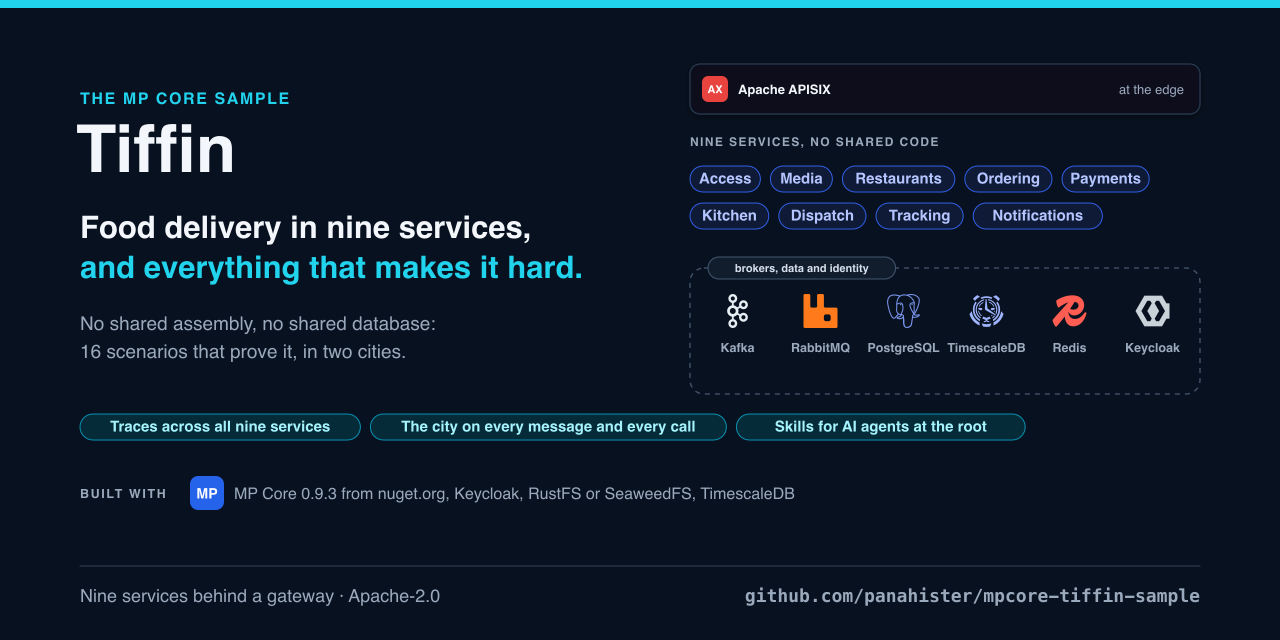
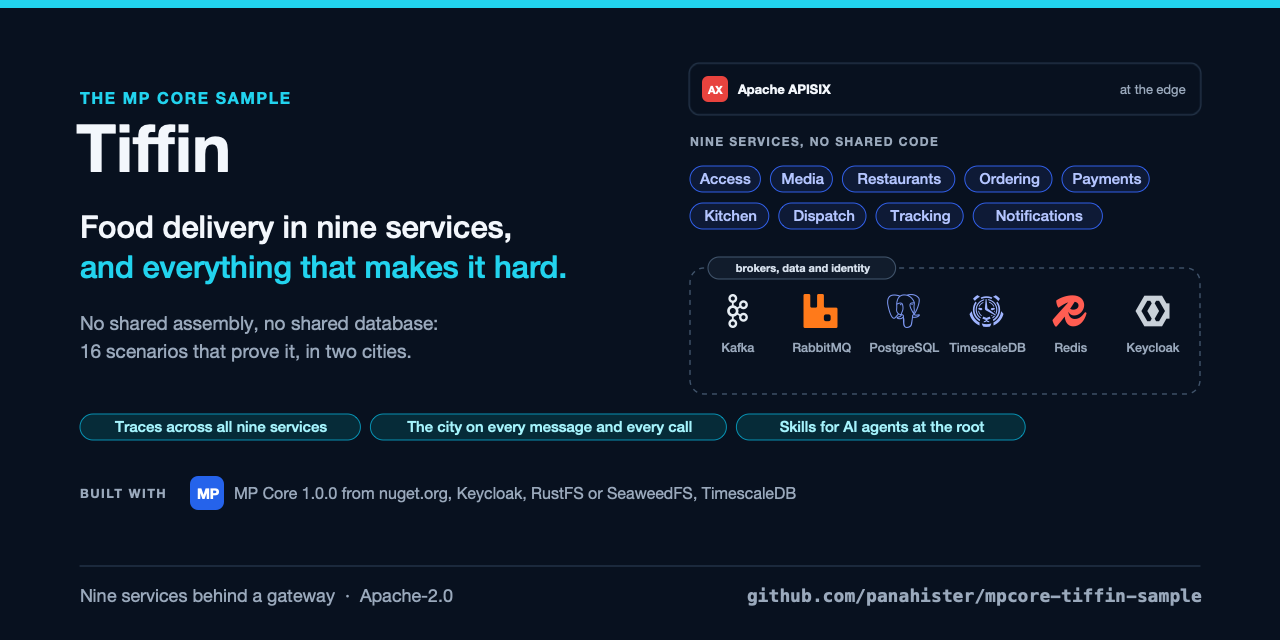
Build with MP Core 1.0.0
Every service and the contract tests pin MP Core 1.0.0, the first version
with a compatibility promise, in place of 0.9.3. The source is unchanged:
built in Release, warnings as errors, against the 1.0.0 packages from
nuget.org with an empty package cache, all 313 tests pass (270 in the nine
services, 43 contract tests).

The documents say 1.0.0 where they named the pinned version: README and the
running guide, which keeps 0.9.3 as the oldest version Tiffin builds with.
The code count is redone by the README's own rule, which reproduces the old
figures exactly at the commit that wrote them (a4a1cde: Tiffin 3,353, hosts
and adapters 4,989; MP Core 0.9.3 tests 7,052): MP Core 1.0.0 has 6,482
lines in the src of its 28 runtime packages and 12,481 lines of tests, 845
tests; Tiffin's business is now 3,458 lines and its hosts and adapters
5,233. The picture that compares them is drawn again from scripts/diagrams,
and the social image says 1.0.0. The dated records of 2026-09-28 are left as
they were.

diff --git a/scripts/diagrams/tiffin.py b/scripts/diagrams/tiffin.py
@@ -241,10 +241,10 @@ def why(d):
     d.rect(x0, y, total, 88, d.t["canvas"], d.t["frame"], r=10, sw=1)
     d.text(x0 + 16, y + 26, "The code, counted", size=13, weight=700)
     d.text(x0 + 16, y + 44, "lines of C#, without comments and braces", size=10.5, fill=d.t["muted"])
-    scale = (total - 260) / 5021
+    scale = (total - 260) / 6482
     bx = x0 + 240
-    for k, (color, label, n) in enumerate([("green", "Tiffin's business: Domain and Application, nine services", 3353),
-                                           ("blue", "MP Core 0.9.3: 28 packages, with 485 tests of their own", 5021)]):
+    for k, (color, label, n) in enumerate([("green", "Tiffin's business: Domain and Application, nine services", 3458),
+                                           ("blue", "MP Core 1.0.0: 28 packages, with 845 tests of their own", 6482)]):
         by = y + 18 + k * 32
         d.rect(bx, by, n * scale, 24, d.fill(color), d.stroke(color), r=6, sw=1)
         d.text(bx + 10, by + 16.5, f"{n:,}  ·  {label}", size=11, weight=600, fill=d.ink(color))

diff --git a/README.md b/README.md
@@ -32,7 +32,7 @@ two cities that never see each other, and sixteen scenarios that prove what is c
 </picture>
 
 > **State: work in progress.** Everything on this page was run; the section [What is not here yet](#what-is-not-here-yet)
-> says what was not. Tiffin is built with MP Core `0.9.3` from nuget.org.
+> says what was not. Tiffin is built with MP Core `1.0.0` from nuget.org.
 
 A tiffin is the lunch box that the dabbawalas of Mumbai carry from a kitchen to a desk, some two hundred
 thousand a day, by hand and by train, with next to no box lost. This sample is about the same thing:
@@ -126,7 +126,7 @@ stream catches up. Every case in the picture is a scenario of `scripts/scenarios
 
 <picture>
   <source media="(prefers-color-scheme: dark)" srcset="docs/images/why-mpcore-dark.svg">
-  <img alt="Ten guarantees the platform needs: for each, what every team builds and proves without MP Core, the line Tiffin wrote with it, and the scenario that proves it; and the code counted: 3,353 lines of Tiffin's business against 5,021 lines in MP Core's 28 packages" src="docs/images/why-mpcore-light.svg" width="100%">
+  <img alt="Ten guarantees the platform needs: for each, what every team builds and proves without MP Core, the line Tiffin wrote with it, and the scenario that proves it; and the code counted: 3,458 lines of Tiffin's business against 6,482 lines in MP Core 1.0.0's 28 packages" src="docs/images/why-mpcore-light.svg" width="100%">
 </picture>
 
 Nine services need the same guarantees nine times: the city on every message and every call, a token of
@@ -138,9 +138,9 @@ scenario in the last column proves it against the running system.
 
 **How the code was counted.** Lines of C# that are neither blank, nor comments, nor a brace alone;
 migrations, `bin` and `obj` left out. Tiffin: the `Domain` and `Application` projects of the nine services.
-MP Core: the `src` of its 28 runtime packages at `0.9.3`; its tests are another 7,052 lines, 485 tests, run
+MP Core: the `src` of its 28 runtime packages at `1.0.0`; its tests are another 12,481 lines, 845 tests, run
 against PostgreSQL, TimescaleDB, Redis, RabbitMQ and Kafka. The hosts and adapters of Tiffin are another
-4,989 lines.
+5,233 lines.
 
 ## Run it
 
@@ -223,8 +223,8 @@ verification ladder, and worked Ordering and Media examples.
 
 ## What was run, and what it said
 
-The current publication candidate was rebuilt in Release mode against MP Core `0.9.3` from NuGet on
-2026-10-08. All 313 tests passed: 270 service tests across the nine services and 43 contract tests.
+On 2026-10-14 Tiffin was rebuilt in Release mode, warnings as errors, against MP Core `1.0.0` from nuget.org
+with an empty package cache. All 313 tests passed: 270 service tests across the nine services and 43 contract tests.
 The detailed split and exact command are in [the running guide](docs/running.md). This is source-level
 verification; it is not a production-readiness or package-release claim.
 

diff --git a/docs/running.md b/docs/running.md
@@ -290,6 +290,6 @@ that `scripts/setup.sh` wrote are all it needs. The REST services describe thems
 | There is none | the packages are restored from nuget.org |
 | `-p:MPCoreSource=NuGet` or `-p:MPCoreSource=Local` | says which, for one build |
 
-Tiffin needs `0.9.3`, which is on nuget.org. With older packages it builds up to the calls that are new:
+Tiffin is built with `1.0.0` from nuget.org, and needs `0.9.3` at least. With older packages it builds up to the calls that are new:
 `AddMPCoreServiceIdentity` and the tenant of a message in `0.9.1`, the tenant of a call in `0.9.2`, a
 delay set by the publisher in `0.9.3`.
